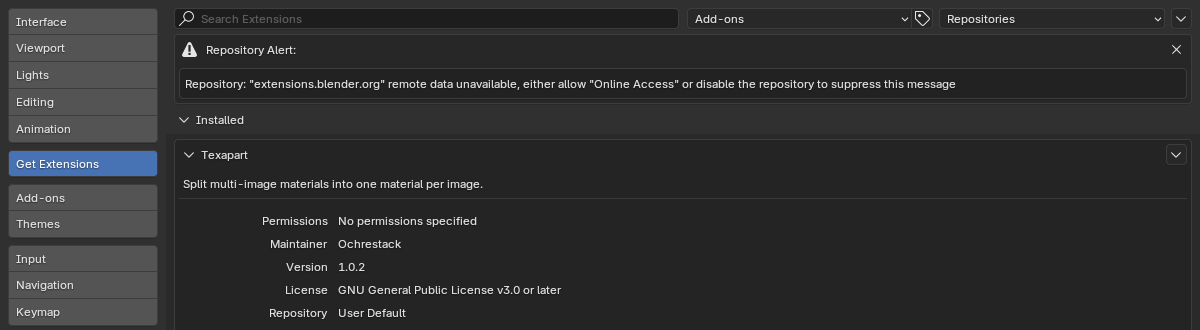
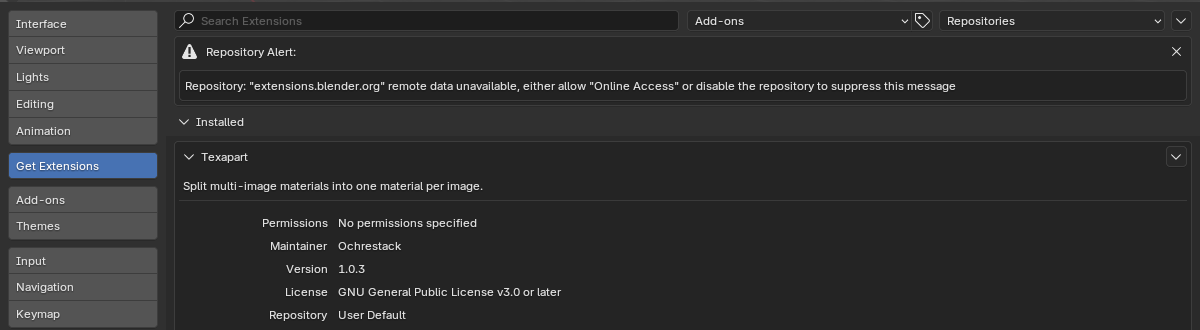
Texapart page for 1.0.3: hero is a film of the panel in its default layout (readable at 11 px), 117 tests and speeds re-measured, quick start for texapart-1.0.3.zip with a new Installed capture, notes that the earlier stills are 1.0.2 captures of a panel that looks the same

diff --git a/texapart/index.html b/texapart/index.html
@@ -55,7 +55,7 @@
   ul.benefits { padding-left: 20px; margin: 0; }
   ul.benefits li { margin: 0 0 12px; }
   .top { display: grid; grid-template-columns: 400px 1fr; gap: 26px; align-items: start; }
-  .top .hero { margin: 4px 0 6px; }
+  .top .hero { margin: 4px auto 6px; width: auto; max-width: 100%; }
   .top .fine { margin: 0; line-height: 1.45; }
   details { margin: 8px 0 24px; font-size: 15px; color: var(--muted); }
   summary { cursor: pointer; }
@@ -84,8 +84,8 @@
 
   <div class="top">
     <div class="top-fig">
-        <img class="hero" src="img/rain-split.gif" alt="A real Blender 4.2 window: Blender Studio's Rain in the viewport, the Texapart panel in the Material Properties. Report lists one material, Rain_Game, with six images and their face counts (her skin in three UDIM tiles, jeans, hair, eyes). Three rows are clicked in Edit Mode and light up her jeans, her hair and her head. Split by Texture is pressed and the material slots list six one-image materials. She looks the same." width="960" height="540">
-      <p class="fine">Real clicks in Blender 4.2.23, 35 s, no sound. Rain, packed as a game port ships her: one material, four images; six one-image materials in 0.3 s. <a href="#credits">Credits</a></p>
+        <img class="hero" src="img/rain-panel.gif" alt="The Texapart panel in Blender 4.2, filmed in the real window on Blender Studio's Rain. Report lists one material, Rain_Game, with six images and their face counts (her skin in three UDIM tiles 2642, 3362 and 6318, jeans 4192, hair 2927, eyes 1410). Rows are clicked and highlighted in turn. After Split by Texture the material slot list shows six one-image materials: rain_skin.1001, .1002, .1003, rain_jeans, rain_hair and rain_eyes." width="332" height="194">
+      <p class="fine">Real Blender 4.2.23, Texapart 1.0.3, 40 s, no sound: Rain, packed as a game port ships her, split into six one-image materials. <a href="#watch">Whole window</a> · <a href="#credits">Credits</a></p>
     </div>
     <div class="top-side">
       <p class="narrow-only" style="margin:0 0 6px"><strong>$10 once</strong>, source included. <a class="button" id="buy-top" href="https://buy.polar.sh/polar_cl_djnMNDNLYjBj1bZCSOPA2KTQcy3xrYDYtqCX921HcvU">Buy for $10</a></p>
@@ -113,7 +113,7 @@
       <source src="video/texapart-demo-1080p60.mp4" type="video/mp4" media="(min-width: 768px)">
       <source src="video/texapart-demo-720p60.mp4" type="video/mp4">
     </video>
-    <figcaption>The demo, 46 s, captions only, no sound (1080p60, 720p60 on phones; <a href="video/texapart-demo-1080p60.mp4">open full size</a>). Real clicks in Blender 4.2.23 with Texapart 1.0.2 on Rain (its opening shots, the node group, the before and after and the Godot shots were recorded on 1.0.1), whose skin, jeans, hair and eye images sit in one material: the node group, Report, a click on a row in Edit Mode, Split by Texture, the same view before and after, then the glTF in Godot 4.7. Credits <a href="#credits">below</a>.</figcaption>
+    <figcaption>The demo, 46 s, captions only, no sound (1080p60, 720p60 on phones; <a href="video/texapart-demo-1080p60.mp4">open full size</a>). Real clicks in Blender 4.2.23 with Texapart 1.0.2 on Rain (recorded before 1.0.3, which changes nothing this film shows; its opening shots, the node group, the before and after and the Godot shots were recorded on 1.0.1), whose skin, jeans, hair and eye images sit in one material: the node group, Report, a click on a row in Edit Mode, Split by Texture, the same view before and after, then the glTF in Godot 4.7. Credits <a href="#credits">below</a>.</figcaption>
   </figure>
   <figure>
     <img src="video/texapart-split.gif" alt="Blender 4.2: Report lists Rain's one material with six images and their face counts, rows are clicked in Edit Mode and light up her jeans, hair and skin, Split by Texture is pressed, and the summary reports 20851 faces placed, 6 new materials, 0 faces listed" width="960" height="540" loading="lazy">
@@ -121,7 +121,7 @@
   </figure>
 
   <h2>In Blender, for real</h2>
-  <p>Every image here is a capture of a real Blender 4.2 window with Texapart 1.0.2 installed from its zip, except the two Cycles renders of the Pavilion below. Rain's skin, jeans, hair and eye images are in one material, as a game port delivers her.</p>
+  <p>Every image here is a capture of a real Blender 4.2 window with Texapart installed from its zip (version 1.0.2, recorded before 1.0.3, whose panel looks the same in these views), except the two Cycles renders of the Pavilion below. Rain's skin, jeans, hair and eye images are in one material, as a game port delivers her.</p>
   <figure>
     <img src="img/rain-node-group.png" alt="Blender's Shader Editor inside the node group Game Surface: an Attribute node reading tex_slot feeds three Map Range and Clamp pairs that set the factors of three Mix nodes; the Mix nodes choose between four Image Texture nodes labelled Skin (a UDIM image), Jeans, Hair and Eyes" width="910" height="490" loading="lazy">
     <figcaption>Before: one material. An attribute, <code>tex_slot</code>, picks one of four images for each face; her skin image has three UDIM tiles.</figcaption>
@@ -167,14 +167,14 @@
   <p>Install and first split: <a href="quick-start.html">Texapart quick start</a>.</p>
 
   <details id="tested">
-    <summary><strong>How we tested</strong> (Rain, a building, scenes built to break it, 110 tests on four Blender versions)</summary>
+    <summary><strong>How we tested</strong> (Rain, a building, scenes built to break it, 117 tests on four Blender versions)</summary>
     <table>
       <tr><th>Scene</th><th>Result</th></tr>
       <tr><td>Rain, packed as above (Blender 4.2.23)</td><td>1 material, 6 images, 20,851 faces: all placed in 6 one-image materials, 0 listed, 0.3 s. A Cycles render (32 samples, 640 x 800) before and after: mean difference 0.0%, no pixel differs. A control that shows her hair image on her jeans measures 0.80%, so the comparison does see a wrong image. Exported with Blender's glTF and FBX exporters and re-imported: 6 materials, each with one image.</td></tr>
       <tr><td>Barcelona Pavilion, rebuilt as an importer delivers it (Blender 5.2.4)</td><td>3 multi-image materials on 7 objects became 8 one-image materials; 7,480 faces placed in 0.2 s; 1 face listed, not guessed (its UVs sit 0.0024 outside its UDIM tile), placed with Move Selected Faces. Render difference 0.0%. In Godot 4.7: one albedo texture per surface.</td></tr>
       <tr><td>Scenes built to break it</td><td>The same image at two scales, two UV maps, colour adjustments, unlit shaders, unclamped mixes, a fixed 50% mix, material indices past the last slot, linked duplicates outside the selection, Array modifiers with UV offsets: 25 scenarios; in each, every face either keeps its look or is listed.</td></tr>
-      <tr><td>Automated tests, real Blender, headless</td><td>110 passed and 1 skipped in each of Blender 4.2.23, 4.5.16, 5.2.4 and 5.3.0 (Linux). The skipped one is undo; Ctrl+Z after the split was checked with real key presses on 4.2.23 and 5.2.4.</td></tr>
-      <tr><td>Size</td><td>204,800 faces on 40 objects: Report and Split each under 0.8 s. 2,000,000 faces on 200 objects: Report 4.6 to 5.0 s, Split 8.2 to 10.3 s (4-core Linux VM).</td></tr>
+      <tr><td>Automated tests, real Blender, headless</td><td>117 passed and 1 skipped in each of Blender 4.2.23, 4.5.16, 5.2.4 and 5.3.0 (Linux). The skipped one is undo; Ctrl+Z after the split was checked with real key presses on 4.2.23 and 5.2.4.</td></tr>
+      <tr><td>Size</td><td>204,800 faces on 40 objects: Report and Split each under 0.8 s. 2,000,000 faces on 200 objects: Report 4.0 to 4.5 s, Split 6.8 to 8.4 s (4-core Linux VM).</td></tr>
     </table>
   </details>
 

diff --git a/texapart/quick-start.html b/texapart/quick-start.html
@@ -37,7 +37,7 @@
 
   <h2 id="install">Install (Blender 4.2 or newer; tested on 4.2.23, 4.5.16, 5.2.4 and 5.3.0)</h2>
   <ol>
-    <li>After checkout, download <code>texapart-1.0.2.zip</code> from the link in Polar's email. Install the zip itself; do not unzip it first.</li>
+    <li>After checkout, download <code>texapart-1.0.3.zip</code> from the link in Polar's email. Install the zip itself; do not unzip it first.</li>
     <li>In Blender, open <strong>Edit &gt; Preferences</strong> and click <strong>Get Extensions</strong>.
       <ul>
         <li>On a new Blender profile it first says that internet access is required to install and update online extensions, with <strong>Continue Offline</strong> and <strong>Allow Online Access</strong>. Texapart needs no internet, so <strong>Continue Offline</strong> is fine.</li>
@@ -47,9 +47,9 @@
     <li>Open the menu at the top right (the small arrow) and choose <strong>Install from Disk...</strong>.
       <figure><img src="img/qs-install-from-disk-menu.png" alt="Blender Preferences, Get Extensions tab, with the menu at the top right open: Visit Extensions Platform, Refresh Remote, Refresh Local, Install Available Updates and Install from Disk..., and the Repository Alert message below the search bar" width="1200" height="235" loading="lazy"><figcaption>Preferences &gt; Get Extensions, Blender 4.2.23 on a new profile, after Continue Offline.</figcaption></figure>
     </li>
-    <li>Pick <code>texapart-1.0.2.zip</code> in the file browser and press <strong>Install from Disk</strong>. <strong>Enable on Install</strong> is ticked by default.</li>
+    <li>Pick <code>texapart-1.0.3.zip</code> in the file browser and press <strong>Install from Disk</strong>. <strong>Enable on Install</strong> is ticked by default.</li>
     <li>Texapart appears under <strong>Installed</strong>, and it is already enabled.
-      <figure><img src="img/qs-installed.png" alt="Get Extensions, Installed list: Texapart, Split multi-image materials into one material per image; Permissions: No permissions specified; Maintainer: Ochrestack; Version: 1.0.2; License: GNU General Public License v3.0 or later" width="1200" height="330" loading="lazy"><figcaption>Installed from the zip: version 1.0.2, no permissions.</figcaption></figure>
+      <figure><img src="img/qs-installed.png" alt="Get Extensions, Installed list: Texapart, Split multi-image materials into one material per image; Permissions: No permissions specified; Maintainer: Ochrestack; Version: 1.0.3; License: GNU General Public License v3.0 or later" width="1200" height="330" loading="lazy"><figcaption>Installed from the zip: version 1.0.3, no permissions.</figcaption></figure>
     </li>
   </ol>
   <p>To update, install the newer zip the same way; Blender replaces the old version and your files are not affected. To remove Texapart, open <strong>Get Extensions</strong>, find <em>Texapart</em>, open its menu and choose <strong>Uninstall</strong>. Materials Texapart made stay in your files as ordinary materials.</p>
@@ -63,7 +63,7 @@
     <li><strong>Press Report.</strong> It lists every material that shows two or more images. Each image has a row with its face count; the box under the list says what decides it, for example <code>attribute 'tex_slot' (Face)</code> or <code>UDIM tile 1002</code>. Faces Texapart will not place by itself get a row with the reason, such as <code>blended: factor 0.4</code> or <code>mask image</code>; click a row and the box under the list shows the reason. An image that does not give the base colour, such as a normal map, gets a note that it is not carried. The report changes nothing. <strong>Copy Report to Text Editor</strong> writes the same list to a text block named "Texapart Report".</li>
     <li><strong>In Edit Mode, click a row</strong> to select exactly its faces in the viewport.</li>
     <li><strong>Press Split by Texture.</strong> Each face moves to a one-image material for the image it showed. The summary below the buttons gives materials before and after, faces placed per image, faces listed and any image that was not carried. The whole split is one undo step (Ctrl+Z). Pressing it again on split materials does nothing and says so. <strong>Blended faces go to the stronger image</strong> is off by default: a face that shows a blend of two images stays on the original material and is listed.</li>
-    <li><strong>Faces the report lists:</strong> in Edit Mode select them (a click on their row does it), pick the image under <strong>Assign by Hand (Edit Mode) &gt; Image:</strong> and press <strong>Move Selected Faces</strong>.</li>
+    <li><strong>Faces the report lists:</strong> in Edit Mode select them (a click on their row does it), pick the image under <strong>Assign by Hand (Edit Mode) &gt; Image:</strong> and press <strong>Move Selected Faces</strong>. The faces that moved are deselected, so a second press does not move them again.</li>
     <li><strong>Export</strong> with Blender's own exporters, for example <strong>File &gt; Export &gt; glTF 2.0</strong> or <strong>FBX</strong>. Each material now holds one image.</li>
   </ol>
   <p>What changes in your file: the material slots of the objects you ran it on and, for faces that read a second UV map or a UDIM tile, their UVs (the old first UV map is kept as "UVMap before Texapart", named after your first map). Each original material stays in the file with a fake user and its nodes are not edited. An object whose mesh is shared with an object outside the run is skipped and named in the summary.</p>
